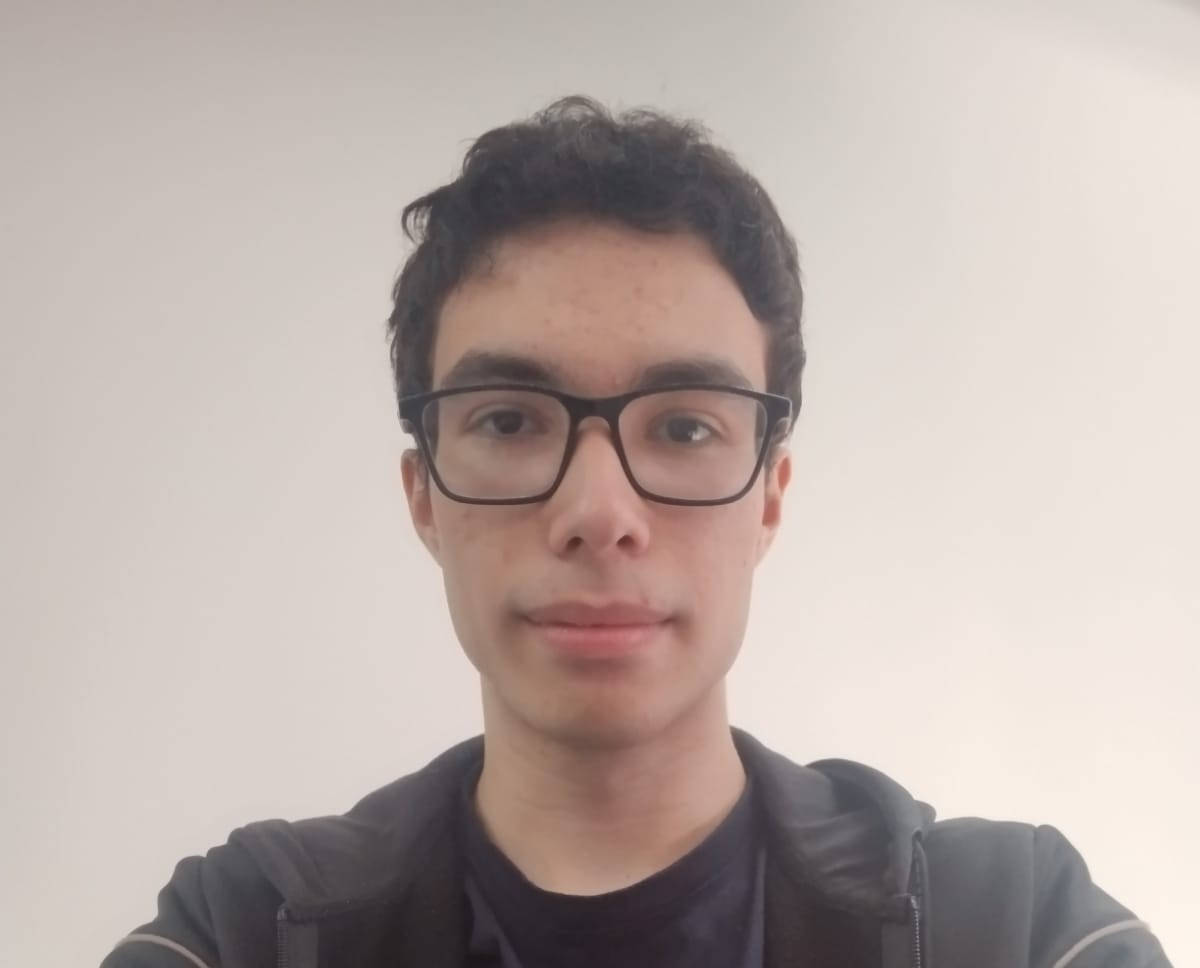
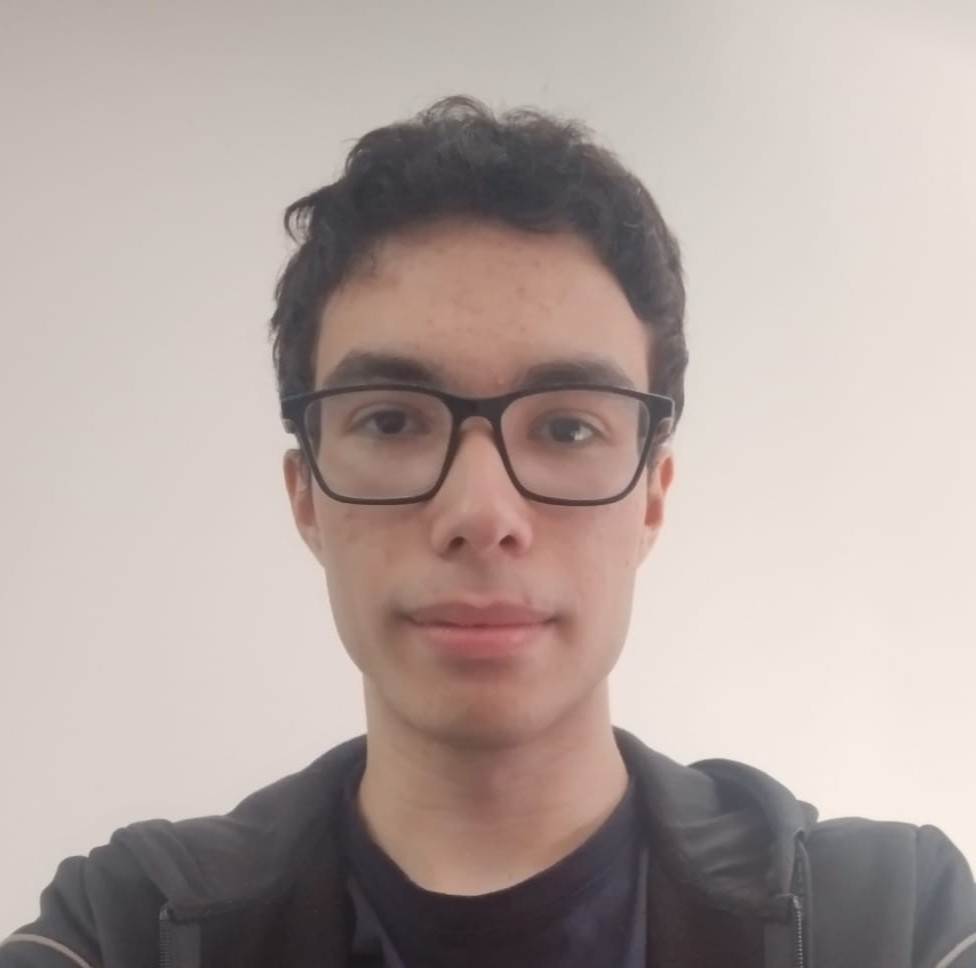
b3

diff --git a/pensamento/bim3.html b/pensamento/bim3.html
@@ -1,0 +1,178 @@
+<!DOCTYPE html>
+<html lang="pt-br">
+<head>
+    <meta charset="UTF-8">
+    <meta name="viewport" content="width=device-width, initial-scale=1.0">
+    <title>B3 Pensamento Computacional</title>
+    <link rel="stylesheet" href="../style.css">
+</head>
+<body>
+    <header>
+        <img class="logo" src="../imagem/logounifil2.svg" alt="UniFil">
+        <div class="links">
+            <a class="atual" href="../index.html">INÍCIO</a>
+            <a class="pagina" href="pensamento.html">PENSAMENTO</a>
+        </div>
+    </header>
+    <section class="aulas">
+        <h1>Turma A | 05/08</h1>
+        <div class ="card">
+            <div class="aula">
+                <div class="fotos">
+                    <img class="foto" src="../imagem/012.jpg" alt="foto">
+                </div>
+                <div class="conteudo">
+                    <p>Hoje o Koga teve que dar uma aula em outro lugar, portanto quem deu a aula foi a auxiliar dele Sibelly.</p>
+                    <p>A aula hoje foi exclusivamente sobre CSS, ela mostrou múltiplos atributos para estilização do css, como font-size, font-family, como importar uma fonte para o html e css, margin, width, align-text, entre outros.</p>
+                    <p>No começo da aula ela relembrou os conceitos do css aprendidos na última aula, e depois ela partiu para exemplos práticos dos atributos do css, e continuou assim até o fim da aula, começando com font-family e como importar uma fonte do google fonts, e depois foi apresentando um atributo de cada vez. 	Eventualmente ela explicou sobre o “c” do css, que significa cascata e que, existem prioridades, sendo id > classe > elemento.</p>
+                    <p>Nessa aula eu ajudei mais os alunos, eles estavam tendo algumas dificuldades com o css, como vírgula, chaves aberta, eu acabei quebrando a cabeça com um deles, por que não estávamos conseguindo colocar a fonte no html dele de jeito nenhum, até que eu percebi que ele simplesmente esqueceu de linkar o css no html, e por isso não ia.</p>
+                    <p>Um problema que eu percebi é que os alunos não são bons com o html semântico, 0 indentações corretas no código, apenas aquelas que o próprio html faz quando é gerado com o ! no vscode.</p>
+                </div>
+            </div>
+        </div>
+    </section>
+    <section class="aulas">
+        <h1>Turma C | 13/08</h1>
+        <div class ="card">
+            <div class="aula">
+                <div class="fotos">
+                    <img class="foto" src="../imagem/013.jpg" alt="foto">
+                </div>
+                <div class="conteudo">
+                    <p>A aula de hoje foi sobre Flexbox no CSS.</p>
+                    <p>O Koga queria começar a aula dando uma revisão sobre os conteúdos do CSS que foram dados na última aula pela Sibelly, entretanto quando ele viu que ia demorar muito ele decidiu parar e seguir com o conteúdo.</p>
+                    <p>A aula inteira foi sobre Flexbox, primeiro ele explicou como era feito uma centralização de divs antes do flexbox, e depois sobre como a flexbox facilita a centralização de divs.</p>
+                    <p>Para demonstrar o funcionamento da flexbox o Koga criou uma div com 3 spans dentro, a div recebeu a classe .container, e foi nela que a maioria dos atributos foram testados.</p>
+                    <p>Ele falou sobre flex-direction, que alterna o eixo principal, justify-content, que serve para modificar no eixo principal, align-content que seria o eixo secundário, ele também mostrou o comportamento de spans que tem tamanhos diferentes.</p>
+                    <p>No final da aula, o professor instruiu os alunos a jogarem Flexbox Froggy para treinar o conteúdo que foi passado na aula e, depois, ele abriu uma sala no blooket para competirem valendo chocolate.</p>
+                </div>
+            </div>
+        </div>
+    </section>
+    <section class="aulas">
+        <h1>Turma C | 19/08</h1>
+        <div class ="card">
+            <div class="aula">
+                <div class="fotos">
+                    <img class="foto" src="../imagem/014.jpg" alt="foto">
+                </div>
+                <div class="conteudo">
+                    <p>No começo da aula o Koga propôs que os alunos da turma do Fatobene iriam juntar com a dele e, fariam uma competição para saber qual turma é a melhor, portanto, colocou todos os alunos no lado direito da sala, para que a turma do Fatobene coubesse no outro.</p>
+                    <p>Como iria ter a disputa, o Koga começou revisando o conteúdo de flexbox da aula passada, lembrando da utilidade do flexbox, como o justify-content, align-content e align-items funcionam.</p>
+                    <p>Depois ele entrou com conteúdo novo, sendo flex-flow, que simplifica dois atributos, flex-grow, flex-shrink e flex-basis, que determinam se a div aumenta, diminui, e também seu tamanho base, em um caso onde a página recebe zoom, e também o flex, que engloba os três.</p>
+                    <p>Como não houve a disputa com a outra sala, e o Koga também não gostou da atividade proposta pelos slides, ele decidiu passar um blooket com o conteúdo da aula para os alunos testarem seus conhecimentos.</p>
+                </div>
+            </div>
+        </div>
+    </section>
+    <section class="aulas">
+        <h1>Turma C | 26/08</h1>
+        <div class ="card">
+            <div class="aula">
+                <div class="fotos">
+                    <img class="foto" src="../imagem/015.jpg" alt="foto">
+                </div>
+                <div class="conteudo">
+                    <p>Para a aula de hoje o Koga propôs uma atividade aos alunos em que eles deveriam fazer uma página simples no HTML com tudo que aprenderam nas aulas.</p>
+                    <p>Para explicar a atividade o professor mostrou uma página que ele havia feito onde tinham dois filmes e duas séries preferidas dele, e uma outra página html com informações para contato, e a ideia era que os alunos fizessem qualquer coisa, sendo aquilo apenas um exemplo.</p>
+                    <p>Um dos alunos na minha fileira decidiu seguir o exemplo do Koga, e o outro decidiu fazer sobre jogadores e times de futebol.</p>
+                    <p>Uma coisa que eu percebi foi que um deles usava o html semântico e indentação perfeitos, diferente do outro que utilizou várias divs e o código estava bem mal indentado.</p>
+                    <p>Teve um problema, onde durante um pouco menos da metade da aula os computadores estavam sem internet, o que gerou uma impossibilidade de colocar imagens no site, porém a internet voltou tempo o suficiente para que pudessem salvar o progresso no github, visto que depois da aula ela acabou.</p>
+                </div>
+            </div>
+        </div>
+    </section>
+    <section class="aulas">
+        <h1>Turma C | 02/09</h1>
+        <div class ="card">
+            <div class="aula">
+                <div class="fotos">
+                    <img class="foto" src="../imagem/016.jpg" alt="foto">
+                </div>
+                <div class="conteudo">
+                    <p>A aula de hoje serviu como continuação da atividade passada na aula anterior.</p>
+                    <p>Os alunos pegaram o site que desenvolveram na aula anterior, e os que não haviam terminado deram continuidade.</p>
+                    <p>Novamente ajudei os alunos, principalmente com o css, com erros bobos e para fazer alguns ajustes no site, eles não passam mais tanta dificuldade no html, porém ainda não dominam o css.</p>
+                </div>
+            </div>
+        </div>
+    </section>
+    <section class="aulas">
+        <h1>Turma C | 08/09</h1>
+        <div class ="card">
+            <div class="aula">
+                <div class="fotos">
+                    <img class="foto" src="../imagem/017.jpg" alt="foto">
+                </div>
+                <div class="conteudo">
+                    <p>Nessa aula o Koga realizou uma revisão para a atividade proposta para a próxima aula.</p>
+                    <p>No começo da aula o professor relembrou os alunos sobre a TechFil, que eles também podem participar, e depois apresentou um site que o Vitor Fatobene fez, a aula foi basicamente sobre a estrutura deste site, e o Koga explicando como ele funcionava, dando ênfase nas múltiplas flexbox presentes no site, porque estavam lá, e o que faziam.</p>
+                    <p>A princípio a aula seria utilizada para que os alunos fizessem um site utilizando os conceitos que foram aprendidos e também os que estavam aplicados no exemplo que o Fatobene fez, entretanto a pedido dos alunos, o Koga começou a explicar o código, e eventualmente gastou a aula inteira para isso, deixando a atividade para a próxima semana.</p>
+                </div>
+            </div>
+        </div>
+    </section>
+    <section class="aulas">
+        <h1>Turma C | 16/09</h1>
+        <div class ="card">
+            <div class="aula">
+                <div class="fotos">
+                    <img class="foto" src="../imagem/018.jpg" alt="foto">
+                </div>
+                <div class="conteudo">
+                    <p>A aula de hoje foi utilizada para fazer a atividade da semana passada.</p>
+                    <p>O Koga começou a aula oferecendo uma breve revisão sobre o código, igual na aula passada, enquanto os alunos faziam a atividade.</p>
+                    <p>Os alunos já se acostumaram a utilizar a flexbox e o css, entretanto um deles perguntou o que era html semântico, assunto que o professor deu bastante ênfase no começo das aulas.</p>
+                    <p>Percebi que os alunos tendem a esquecer algumas coisas gerais, como para que serve flex-direction, border, height, width, mas deve ser porque as aulas são semanais.</p>
+                    <p>Também teve uma menina que não usava um style.css, ela tinha feito o css dentro do próprio html, achei isso um tanto interessante, até porque não foi ensinado como fazer isso nas aulas.</p>
+                </div>
+            </div>
+        </div>
+    </section>
+    <section class="aulas">
+        <h1>Turma C | 23/09</h1>
+        <div class ="card">
+            <div class="aula">
+                <div class="fotos">
+                    <img class="foto" src="../imagem/019.jpg" alt="foto">
+                </div>
+                <div class="conteudo">
+                    <p>A aula de hoje deu início ao conteúdo de JavaScript.</p>
+                    <p>No começo da aula a turma do Koga juntou com a turma do Fatobene (D), e aparentemente a ideia era fazer um kahoot no final para ver qual turma era a melhor, entretanto não houve tempo o suficiente para isso.</p>
+                    <p>A maior parte da aula foi utilizada para os alunos finalizarem a atividade das aulas anteriores, e só nos últimos 20 minutos eles decidiram entrar no conteúdo de JavaScript.</p>
+                    <p>O Fatobene deu a aula sobre JavaScript, e foi basicamente introdução das variáveis, ele explicou para que servem, como ser instanciadas e como podem ser usadas.</p>
+                    <p>Para utilizar o JavaScript os alunos foram nos navegadores e utilizaram o console do inspecionar, o que permitiu instanciar variáveis e utilizar o console.log() para ver essas variáveis.</p>
+                    <p>Os alunos que monitorei já haviam terminado a atividade, e não tiveram muita dificuldade no JavaScript, exceto por um, que tentou instanciar uma variável de nome como “const(“Ryan”)”, mas depois que eu expliquei como era ele pegou o jeito.</p>
+                </div>
+            </div>
+        </div>
+    </section>
+</body>
+<footer>
+    <div class="rodape">
+        <div>
+            <h2>João Paulo da Silva Albano</h2>
+            <p>Ciência da Computação</p>
+        </div>
+        <div>
+            <h2>Informações de contato</h2>
+            <p>Email: jpalbano42@gmail.com</p>
+            <p>Telefone: (14) 98836-2236</p>
+        </div>
+        <div>
+            <h2>Me encontre:</h2>
+            <a href="https://www.linkedin.com/in/jo%C3%A3o-paulo-da-silva-albano-82b1b13b4">
+                <svg class="w-6 h-6 text-gray-800 dark:text-white" aria-hidden="true" xmlns="http://www.w3.org/2000/svg" width="24" height="24" fill="currentColor" viewBox="0 0 24 24">
+                    <path fill-rule="evenodd" d="M12.51 8.796v1.697a3.738 3.738 0 0 1 3.288-1.684c3.455 0 4.202 2.16 4.202 4.97V19.5h-3.2v-5.072c0-1.21-.244-2.766-2.128-2.766-1.827 0-2.139 1.317-2.139 2.676V19.5h-3.19V8.796h3.168ZM7.2 6.106a1.61 1.61 0 0 1-.988 1.483 1.595 1.595 0 0 1-1.743-.348A1.607 1.607 0 0 1 5.6 4.5a1.601 1.601 0 0 1 1.6 1.606Z" clip-rule="evenodd"/>
+                    <path d="M7.2 8.809H4V19.5h3.2V8.809Z"/>
+                </svg>
+            </a>
+            <a href="https://github.com/jp-albano">
+                <svg class="w-6 h-6 text-gray-800 dark:text-white" aria-hidden="true" xmlns="http://www.w3.org/2000/svg" width="24" height="24" fill="currentColor" viewBox="0 0 24 24">
+                    <path fill-rule="evenodd" d="M12.006 2a9.847 9.847 0 0 0-6.484 2.44 10.32 10.32 0 0 0-3.393 6.17 10.48 10.48 0 0 0 1.317 6.955 10.045 10.045 0 0 0 5.4 4.418c.504.095.683-.223.683-.494 0-.245-.01-1.052-.014-1.908-2.78.62-3.366-1.21-3.366-1.21a2.711 2.711 0 0 0-1.11-1.5c-.907-.637.07-.621.07-.621.317.044.62.163.885.346.266.183.487.426.647.71.135.253.318.476.538.655a2.079 2.079 0 0 0 2.37.196c.045-.52.27-1.006.635-1.37-2.219-.259-4.554-1.138-4.554-5.07a4.022 4.022 0 0 1 1.031-2.75 3.77 3.77 0 0 1 .096-2.713s.839-.275 2.749 1.05a9.26 9.26 0 0 1 5.004 0c1.906-1.325 2.74-1.05 2.74-1.05.37.858.406 1.828.101 2.713a4.017 4.017 0 0 1 1.029 2.75c0 3.939-2.339 4.805-4.564 5.058a2.471 2.471 0 0 1 .679 1.897c0 1.372-.012 2.477-.012 2.814 0 .272.18.592.687.492a10.05 10.05 0 0 0 5.388-4.421 10.473 10.473 0 0 0 1.313-6.948 10.32 10.32 0 0 0-3.39-6.165A9.847 9.847 0 0 0 12.007 2Z" clip-rule="evenodd"/>
+                </svg>
+            </a>
+        </div>
+    </div>
+</footer>
+</html>

diff --git a/index.html b/index.html
@@ -26,22 +26,30 @@
     </section>
 </body>
 <footer>
-    <div>
-        <h2>Informações de contato</h2>
-        <p>Telefone: (14) 98836-2236</p>
-    </div>
-    <div>
-        <a href="https://www.linkedin.com/in/jo%C3%A3o-paulo-da-silva-albano-82b1b13b4">
-        <svg class="w-6 h-6 text-gray-800 dark:text-white" aria-hidden="true" xmlns="http://www.w3.org/2000/svg" width="24" height="24" fill="currentColor" viewBox="0 0 24 24">
-            <path fill-rule="evenodd" d="M12.51 8.796v1.697a3.738 3.738 0 0 1 3.288-1.684c3.455 0 4.202 2.16 4.202 4.97V19.5h-3.2v-5.072c0-1.21-.244-2.766-2.128-2.766-1.827 0-2.139 1.317-2.139 2.676V19.5h-3.19V8.796h3.168ZM7.2 6.106a1.61 1.61 0 0 1-.988 1.483 1.595 1.595 0 0 1-1.743-.348A1.607 1.607 0 0 1 5.6 4.5a1.601 1.601 0 0 1 1.6 1.606Z" clip-rule="evenodd"/>
-            <path d="M7.2 8.809H4V19.5h3.2V8.809Z"/>
-        </svg>
-    </a>
-    <a href="https://github.com/jp-albano">
-        <svg class="w-6 h-6 text-gray-800 dark:text-white" aria-hidden="true" xmlns="http://www.w3.org/2000/svg" width="24" height="24" fill="currentColor" viewBox="0 0 24 24">
-            <path fill-rule="evenodd" d="M12.006 2a9.847 9.847 0 0 0-6.484 2.44 10.32 10.32 0 0 0-3.393 6.17 10.48 10.48 0 0 0 1.317 6.955 10.045 10.045 0 0 0 5.4 4.418c.504.095.683-.223.683-.494 0-.245-.01-1.052-.014-1.908-2.78.62-3.366-1.21-3.366-1.21a2.711 2.711 0 0 0-1.11-1.5c-.907-.637.07-.621.07-.621.317.044.62.163.885.346.266.183.487.426.647.71.135.253.318.476.538.655a2.079 2.079 0 0 0 2.37.196c.045-.52.27-1.006.635-1.37-2.219-.259-4.554-1.138-4.554-5.07a4.022 4.022 0 0 1 1.031-2.75 3.77 3.77 0 0 1 .096-2.713s.839-.275 2.749 1.05a9.26 9.26 0 0 1 5.004 0c1.906-1.325 2.74-1.05 2.74-1.05.37.858.406 1.828.101 2.713a4.017 4.017 0 0 1 1.029 2.75c0 3.939-2.339 4.805-4.564 5.058a2.471 2.471 0 0 1 .679 1.897c0 1.372-.012 2.477-.012 2.814 0 .272.18.592.687.492a10.05 10.05 0 0 0 5.388-4.421 10.473 10.473 0 0 0 1.313-6.948 10.32 10.32 0 0 0-3.39-6.165A9.847 9.847 0 0 0 12.007 2Z" clip-rule="evenodd"/>
-        </svg>
-    </a>
+    <div class="rodape">
+        <div>
+            <h2>João Paulo da Silva Albano</h2>
+            <p>Ciência da Computação</p>
+        </div>
+        <div>
+            <h2>Informações de contato</h2>
+            <p>Email: jpalbano42@gmail.com</p>
+            <p>Telefone: (14) 98836-2236</p>
+        </div>
+        <div>
+            <h2>Me encontre:</h2>
+            <a href="https://www.linkedin.com/in/jo%C3%A3o-paulo-da-silva-albano-82b1b13b4">
+            <svg class="w-6 h-6 text-gray-800 dark:text-white" aria-hidden="true" xmlns="http://www.w3.org/2000/svg" width="24" height="24" fill="currentColor" viewBox="0 0 24 24">
+                <path fill-rule="evenodd" d="M12.51 8.796v1.697a3.738 3.738 0 0 1 3.288-1.684c3.455 0 4.202 2.16 4.202 4.97V19.5h-3.2v-5.072c0-1.21-.244-2.766-2.128-2.766-1.827 0-2.139 1.317-2.139 2.676V19.5h-3.19V8.796h3.168ZM7.2 6.106a1.61 1.61 0 0 1-.988 1.483 1.595 1.595 0 0 1-1.743-.348A1.607 1.607 0 0 1 5.6 4.5a1.601 1.601 0 0 1 1.6 1.606Z" clip-rule="evenodd"/>
+                <path d="M7.2 8.809H4V19.5h3.2V8.809Z"/>
+            </svg>
+        </a>
+        <a href="https://github.com/jp-albano">
+            <svg class="w-6 h-6 text-gray-800 dark:text-white" aria-hidden="true" xmlns="http://www.w3.org/2000/svg" width="24" height="24" fill="currentColor" viewBox="0 0 24 24">
+                <path fill-rule="evenodd" d="M12.006 2a9.847 9.847 0 0 0-6.484 2.44 10.32 10.32 0 0 0-3.393 6.17 10.48 10.48 0 0 0 1.317 6.955 10.045 10.045 0 0 0 5.4 4.418c.504.095.683-.223.683-.494 0-.245-.01-1.052-.014-1.908-2.78.62-3.366-1.21-3.366-1.21a2.711 2.711 0 0 0-1.11-1.5c-.907-.637.07-.621.07-.621.317.044.62.163.885.346.266.183.487.426.647.71.135.253.318.476.538.655a2.079 2.079 0 0 0 2.37.196c.045-.52.27-1.006.635-1.37-2.219-.259-4.554-1.138-4.554-5.07a4.022 4.022 0 0 1 1.031-2.75 3.77 3.77 0 0 1 .096-2.713s.839-.275 2.749 1.05a9.26 9.26 0 0 1 5.004 0c1.906-1.325 2.74-1.05 2.74-1.05.37.858.406 1.828.101 2.713a4.017 4.017 0 0 1 1.029 2.75c0 3.939-2.339 4.805-4.564 5.058a2.471 2.471 0 0 1 .679 1.897c0 1.372-.012 2.477-.012 2.814 0 .272.18.592.687.492a10.05 10.05 0 0 0 5.388-4.421 10.473 10.473 0 0 0 1.313-6.948 10.32 10.32 0 0 0-3.39-6.165A9.847 9.847 0 0 0 12.007 2Z" clip-rule="evenodd"/>
+            </svg>
+        </a>
+        </div>
     </div>
 </footer>
 </html>

diff --git a/pensamento/bim2.html b/pensamento/bim2.html
@@ -3,7 +3,7 @@
 <head>
     <meta charset="UTF-8">
     <meta name="viewport" content="width=device-width, initial-scale=1.0">
-    <title>Portfólio</title>
+    <title>B2 Pensamento Computacional</title>
     <link rel="stylesheet" href="../style.css">
 </head>
 <body>
@@ -187,4 +187,31 @@
         </div>
     </section>
 </body>
+<footer>
+    <div class="rodape">
+        <div>
+            <h2>João Paulo da Silva Albano</h2>
+            <p>Ciência da Computação</p>
+        </div>
+        <div>
+            <h2>Informações de contato</h2>
+            <p>Email: jpalbano42@gmail.com</p>
+            <p>Telefone: (14) 98836-2236</p>
+        </div>
+        <div>
+            <h2>Me encontre:</h2>
+            <a href="https://www.linkedin.com/in/jo%C3%A3o-paulo-da-silva-albano-82b1b13b4">
+                <svg class="w-6 h-6 text-gray-800 dark:text-white" aria-hidden="true" xmlns="http://www.w3.org/2000/svg" width="24" height="24" fill="currentColor" viewBox="0 0 24 24">
+                    <path fill-rule="evenodd" d="M12.51 8.796v1.697a3.738 3.738 0 0 1 3.288-1.684c3.455 0 4.202 2.16 4.202 4.97V19.5h-3.2v-5.072c0-1.21-.244-2.766-2.128-2.766-1.827 0-2.139 1.317-2.139 2.676V19.5h-3.19V8.796h3.168ZM7.2 6.106a1.61 1.61 0 0 1-.988 1.483 1.595 1.595 0 0 1-1.743-.348A1.607 1.607 0 0 1 5.6 4.5a1.601 1.601 0 0 1 1.6 1.606Z" clip-rule="evenodd"/>
+                    <path d="M7.2 8.809H4V19.5h3.2V8.809Z"/>
+                </svg>
+            </a>
+            <a href="https://github.com/jp-albano">
+                <svg class="w-6 h-6 text-gray-800 dark:text-white" aria-hidden="true" xmlns="http://www.w3.org/2000/svg" width="24" height="24" fill="currentColor" viewBox="0 0 24 24">
+                    <path fill-rule="evenodd" d="M12.006 2a9.847 9.847 0 0 0-6.484 2.44 10.32 10.32 0 0 0-3.393 6.17 10.48 10.48 0 0 0 1.317 6.955 10.045 10.045 0 0 0 5.4 4.418c.504.095.683-.223.683-.494 0-.245-.01-1.052-.014-1.908-2.78.62-3.366-1.21-3.366-1.21a2.711 2.711 0 0 0-1.11-1.5c-.907-.637.07-.621.07-.621.317.044.62.163.885.346.266.183.487.426.647.71.135.253.318.476.538.655a2.079 2.079 0 0 0 2.37.196c.045-.52.27-1.006.635-1.37-2.219-.259-4.554-1.138-4.554-5.07a4.022 4.022 0 0 1 1.031-2.75 3.77 3.77 0 0 1 .096-2.713s.839-.275 2.749 1.05a9.26 9.26 0 0 1 5.004 0c1.906-1.325 2.74-1.05 2.74-1.05.37.858.406 1.828.101 2.713a4.017 4.017 0 0 1 1.029 2.75c0 3.939-2.339 4.805-4.564 5.058a2.471 2.471 0 0 1 .679 1.897c0 1.372-.012 2.477-.012 2.814 0 .272.18.592.687.492a10.05 10.05 0 0 0 5.388-4.421 10.473 10.473 0 0 0 1.313-6.948 10.32 10.32 0 0 0-3.39-6.165A9.847 9.847 0 0 0 12.007 2Z" clip-rule="evenodd"/>
+                </svg>
+            </a>
+        </div>
+    </div>
+</footer>
 </html>

diff --git a/pensamento/pensamento.html b/pensamento/pensamento.html
@@ -3,7 +3,7 @@
 <head>
     <meta charset="UTF-8">
     <meta name="viewport" content="width=device-width, initial-scale=1.0">
-    <title>Portfólio</title>
+    <title>Pensamento Computacional</title>
     <link rel="stylesheet" href="../style.css">
 </head>
 <body>
@@ -24,21 +24,27 @@
         </div>
     </section>
     <section class="box">
-        <h1>Aulas</h1>
+        <h1>Relatórios</h1>
         <div class="bimestres">
             <a class="bimestre" href="bim2.html">2&ordm; Bimestre</a>
             <a class="bimestre" href="bim3.html">3&ordm; Bimestre</a>
-            <a class="bimestre" href="bim3.html">4&ordm; Bimestre</a>
+            
         </div>
     </section>
 </body>
 <footer>
-    <div>
+    <div class="rodape">
         <div>
-            <p class="ftexto"><strong>Informações de Contato</strong></p>
-            <p class="ftexto"><strong>Telefone: (14) 98836-2236</strong></p>
+            <h2>João Paulo da Silva Albano</h2>
+            <p>Ciência da Computação</p>
         </div>
         <div>
+            <h2>Informações de contato</h2>
+            <p>Email: jpalbano42@gmail.com</p>
+            <p>Telefone: (14) 98836-2236</p>
+        </div>
+        <div>
+            <h2>Me encontre:</h2>
             <a href="https://www.linkedin.com/in/jo%C3%A3o-paulo-da-silva-albano-82b1b13b4">
                 <svg class="w-6 h-6 text-gray-800 dark:text-white" aria-hidden="true" xmlns="http://www.w3.org/2000/svg" width="24" height="24" fill="currentColor" viewBox="0 0 24 24">
                     <path fill-rule="evenodd" d="M12.51 8.796v1.697a3.738 3.738 0 0 1 3.288-1.684c3.455 0 4.202 2.16 4.202 4.97V19.5h-3.2v-5.072c0-1.21-.244-2.766-2.128-2.766-1.827 0-2.139 1.317-2.139 2.676V19.5h-3.19V8.796h3.168ZM7.2 6.106a1.61 1.61 0 0 1-.988 1.483 1.595 1.595 0 0 1-1.743-.348A1.607 1.607 0 0 1 5.6 4.5a1.601 1.601 0 0 1 1.6 1.606Z" clip-rule="evenodd"/>

diff --git a/style.css b/style.css
@@ -42,11 +42,14 @@ header {
     transform: scale(1.05);
     box-shadow: 0 10px 20px rgba(0, 0, 0, 0.2);
 }
+.rodape {
+    display: flex;
+    justify-content: space-between;
+    gap: 300px;
+}
 footer {
     background-color: black;
     margin: -1%;
-    padding: 1%;
-    padding-bottom: 0%;
 }
 .box {
     display: flex;
@@ -123,14 +126,12 @@ svg {
     border-radius: 25%;
     
 }
-.ftexto {
-    font-size: 20px;
-}
 .aula {
     display: flex;
     align-items: center;
     justify-content: space-between;
     gap: 50px;
+    padding-bottom: 1%;
     
 }
 .aulas {
@@ -147,4 +148,7 @@ svg {
 }
 .fotominha {
     width: 25%;
+    height: 25%;
+    border-radius: 100%;
+    border: solid orange;
 }
